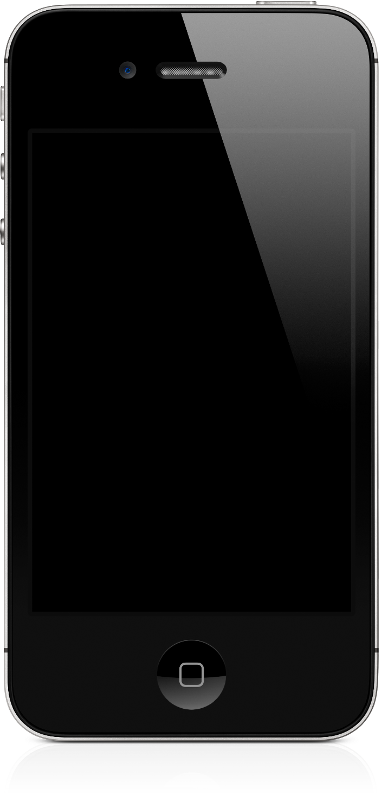
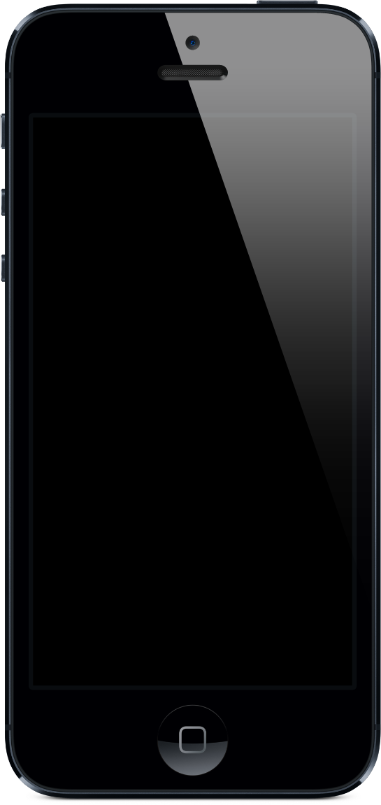
website updates

Changed region(s): [[0.0, 0.0, 1.0, 1.0], [0.3184, 0.0602, 0.3763, 0.1203]]

diff --git a/index.html b/index.html
@@ -29,82 +29,31 @@
         <p><em>Click the iPhone to cycle through the screenshots.</em></p>
         <ul id="screenshots">
           <li itemprop="screenshot" itemscope itemtype="http://schema.org/ImageObject">
-            <img src="images/screenshots/NewsFeed.png" alt="News Feed on the iPhone" itemprop="contentURL" />
+            <img src="images/screenshots/events.png" alt="News Feed on the iPhone" itemprop="contentURL" />
           </li>
           <li itemprop="screenshot" itemscope itemtype="http://schema.org/ImageObject">
-            <img src="images/screenshots/MyActivity.png" alt="Activity Feed" itemprop="contentURL" />
+            <img src="images/screenshots/menu.png" alt="The main menu" itemprop="contentURL" />
           </li>
           <li itemprop="screenshot" itemscope itemtype="http://schema.org/ImageObject">
-            <img src="images/screenshots/FeedEntry.png" alt="Feed Entry" itemprop="contentURL" />
+            <img src="images/screenshots/profile.png" alt="User Details" itemprop="contentURL" />
           </li>
           <li itemprop="screenshot" itemscope itemtype="http://schema.org/ImageObject">
-            <img src="images/screenshots/OrganizationFeeds.png" alt="Organization Feeds" itemprop="contentURL" />
+            <img src="images/screenshots/repos.png" alt="My Repositories" itemprop="contentURL" />
           </li>
           <li itemprop="screenshot" itemscope itemtype="http://schema.org/ImageObject">
-            <img src="images/screenshots/Repositories.png" alt="My Repositories" itemprop="contentURL" />
+            <img src="images/screenshots/repo.png" alt="Repository Details" itemprop="contentURL" />
           </li>
           <li itemprop="screenshot" itemscope itemtype="http://schema.org/ImageObject">
-            <img src="images/screenshots/Repository-1.png" alt="Repository Details" itemprop="contentURL" />
+            <img src="images/screenshots/code.png" alt="Code view on the iPhone" itemprop="contentURL" />
           </li>
           <li itemprop="screenshot" itemscope itemtype="http://schema.org/ImageObject">
-            <img src="images/screenshots/Repository-2.png" alt="Repository Details" itemprop="contentURL" />
+            <img src="images/screenshots/issues.png" alt="Closed Issues" itemprop="contentURL" />
           </li>
           <li itemprop="screenshot" itemscope itemtype="http://schema.org/ImageObject">
-            <img src="images/screenshots/RepositoryActions.png" alt="Repository Actions" itemprop="contentURL" />
+            <img src="images/screenshots/gists.png" alt="View GitHub gists" itemprop="contentURL" />
           </li>
           <li itemprop="screenshot" itemscope itemtype="http://schema.org/ImageObject">
-            <img src="images/screenshots/Readme.png" alt="README" itemprop="contentURL" />
-          </li>
-          <li itemprop="screenshot" itemscope itemtype="http://schema.org/ImageObject">
-            <img src="images/screenshots/RecentCommits.png" alt="Recent Commits" itemprop="contentURL" />
-          </li>
-          <li itemprop="screenshot" itemscope itemtype="http://schema.org/ImageObject">
-            <img src="images/screenshots/Commit.png" alt="Commit" itemprop="contentURL" />
-          </li>
-          <li itemprop="screenshot" itemscope itemtype="http://schema.org/ImageObject">
-            <img src="images/screenshots/CommitDetails.png" alt="Commit Details" itemprop="contentURL" />
-          </li>
-          <li itemprop="screenshot" itemscope itemtype="http://schema.org/ImageObject">
-            <img src="images/screenshots/ModifiedFiles.png" alt="Modified Files" itemprop="contentURL" />
-          </li>
-          <li itemprop="screenshot" itemscope itemtype="http://schema.org/ImageObject">
-            <img src="images/screenshots/Diff.png" alt="Diff" itemprop="contentURL" />
-          </li>
-          <li itemprop="screenshot" itemscope itemtype="http://schema.org/ImageObject">
-            <img src="images/screenshots/IssuesOpen.png" alt="Manage Open Issues on your mobile phone" itemprop="contentURL" />
-          </li>
-          <li itemprop="screenshot" itemscope itemtype="http://schema.org/ImageObject">
-            <img src="images/screenshots/IssuesClosed.png" alt="Closed Issues" itemprop="contentURL" />
-          </li>
-          <li itemprop="screenshot" itemscope itemtype="http://schema.org/ImageObject">
-            <img src="images/screenshots/Issue.png" alt="Issue" itemprop="contentURL" />
-          </li>
-          <li itemprop="screenshot" itemscope itemtype="http://schema.org/ImageObject">
-            <img src="images/screenshots/IssueActions.png" alt="Issue Actions" itemprop="contentURL" />
-          </li>
-          <li itemprop="screenshot" itemscope itemtype="http://schema.org/ImageObject">
-            <img src="images/screenshots/IssueEditing.png" alt="Issue Editing" itemprop="contentURL" />
-          </li>
-          <li itemprop="screenshot" itemscope itemtype="http://schema.org/ImageObject">
-            <img src="images/screenshots/Forks.png" alt="Forks" itemprop="contentURL" />
-          </li>
-          <li itemprop="screenshot" itemscope itemtype="http://schema.org/ImageObject">
-            <img src="images/screenshots/Profile.png" alt="User Details" itemprop="contentURL" />
-          </li>
-          <li itemprop="screenshot" itemscope itemtype="http://schema.org/ImageObject">
-            <img src="images/screenshots/Following.png" alt="Following" itemprop="contentURL" />
-          </li>
-          <li itemprop="screenshot" itemscope itemtype="http://schema.org/ImageObject">
-            <img src="images/screenshots/Followers.png" alt="Followers" itemprop="contentURL" />
-          </li>
-          <li itemprop="screenshot" itemscope itemtype="http://schema.org/ImageObject">
-            <img src="images/screenshots/UserActions.png" alt="User Actions" itemprop="contentURL" />
-          </li>
-          <li itemprop="screenshot" itemscope itemtype="http://schema.org/ImageObject">
-            <img src="images/screenshots/SearchUser.png" alt="User Search" itemprop="contentURL" />
-          </li>
-          <li itemprop="screenshot" itemscope itemtype="http://schema.org/ImageObject">
-            <img src="images/screenshots/SearchRepository.png" alt="Repository Search on the mobile app" itemprop="contentURL" />
+            <img src="images/screenshots/search.png" alt="Repository Search on the mobile app" itemprop="contentURL" />
           </li>
         </ul>
         <h2>Features</h2>
@@ -113,7 +62,7 @@
           <li><strong>Feeds:</strong> Your news and activity feed with the latest events from your repositories, organizations and friends. Find out what's currently happening and take action: Star repositories you like, explore the repos your collegues are starting and the projects your friends are interested in.</li>
           <li><strong>Repositories:</strong> iOctocat gives you quick access to your private and public repos plus the ones on your star- and watchlist. See the code and recent commits of the different branches, the README, issues and forks. iOctocat features a code viewer with lots of nice themes, so you can see the code in all of its beauty. And of course you can or watch and star repositories.</li>
           <li><strong>Commits:</strong> Detailed information about the files that were added, removed and modified. Browse the changes of the modified files viewing colored diffs. And yes, you can comment on commits.</li>
-          <li><strong>Issues:</strong> View the open and closed issues of a repository and use iOctocat to open new issues, edit existing ones or close an issue you fixed. You can also discuss issues by writing comments.</li>
+          <li><strong>Issues and Pull Requests:</strong> View the open and closed issues of a repository and use iOctocat to open new issues, edit existing ones or close an issue you fixed. You can also discuss issues and pull requests by writing comments or merge a pull request on the go.</li>
           <li><strong>Users and Organizations:</strong> If you see someone interesting who maybe committed to one of your projects, why not have a look at him, checking out his or her repositories, gist and followings. Use iOctocat to immediately follow the person so you will be informed about his contributions to open source software.</li>
           <li><strong>Gists:</strong> You have access to your personal (public and private) and starred gists. You can browse them the same way you can explore repositories and of course you can comment on gists, too.</li>
           <li><strong>Search:</strong> Look up users and repositories and explore them like mentioned above.</li>
@@ -126,11 +75,10 @@
         <p><a href="http://itunes.com/apps/ioctocat">Buy iOctocat today</a> and be sure to
           <a href="http://twitter.com/ioctocat">follow the project on Twitter</a> to be informed about what features
           will be added soon and when new versions ship!</p>
-        <iframe width="389" height="230" src="http://tools.flattr.net/widgets/thing.html?thing=427433&amp;noheader=1"></iframe>
       </div>
       <div id="sidebar">
         <div id="appstore">
-          <a href="http://itunes.com/apps/ioctocat"><img src="images/appstore.png"  alt="Available on the App Store" /></a>
+          <a href="http://itunes.com/apps/ioctocat"><img src="images/appstore.png" width="135" height="40" alt="Available on the App Store" /></a>
           <p><em><span itemprop="operatingSystems">iOS</span> <span itemprop="operatingSystemVersion">5.0 or higher</span>,
             iPhone 5 ready</em></p>
         </div>

diff --git a/css/style.css b/css/style.css
@@ -9,6 +9,7 @@ body {
 }
 
 h1 {
+  margin: 0 0 .25em 0;
 	font-size: 2.2em;
 	font-family: Lucida Grande;
 	letter-spacing: -0.05em;
@@ -107,15 +108,15 @@ ul#screenshots {
 
 #screenshots li {
 	position: absolute;
-	top: 134px;
-	left: 31px;
+	top: 116px;
+	left: 34px;
 	display: none;
 }
 
 #screenshots img {
 	display: block;
   width: 320px;
-  height: 480px;
+  height: 568px;
 }
 
 ul#reviews,
